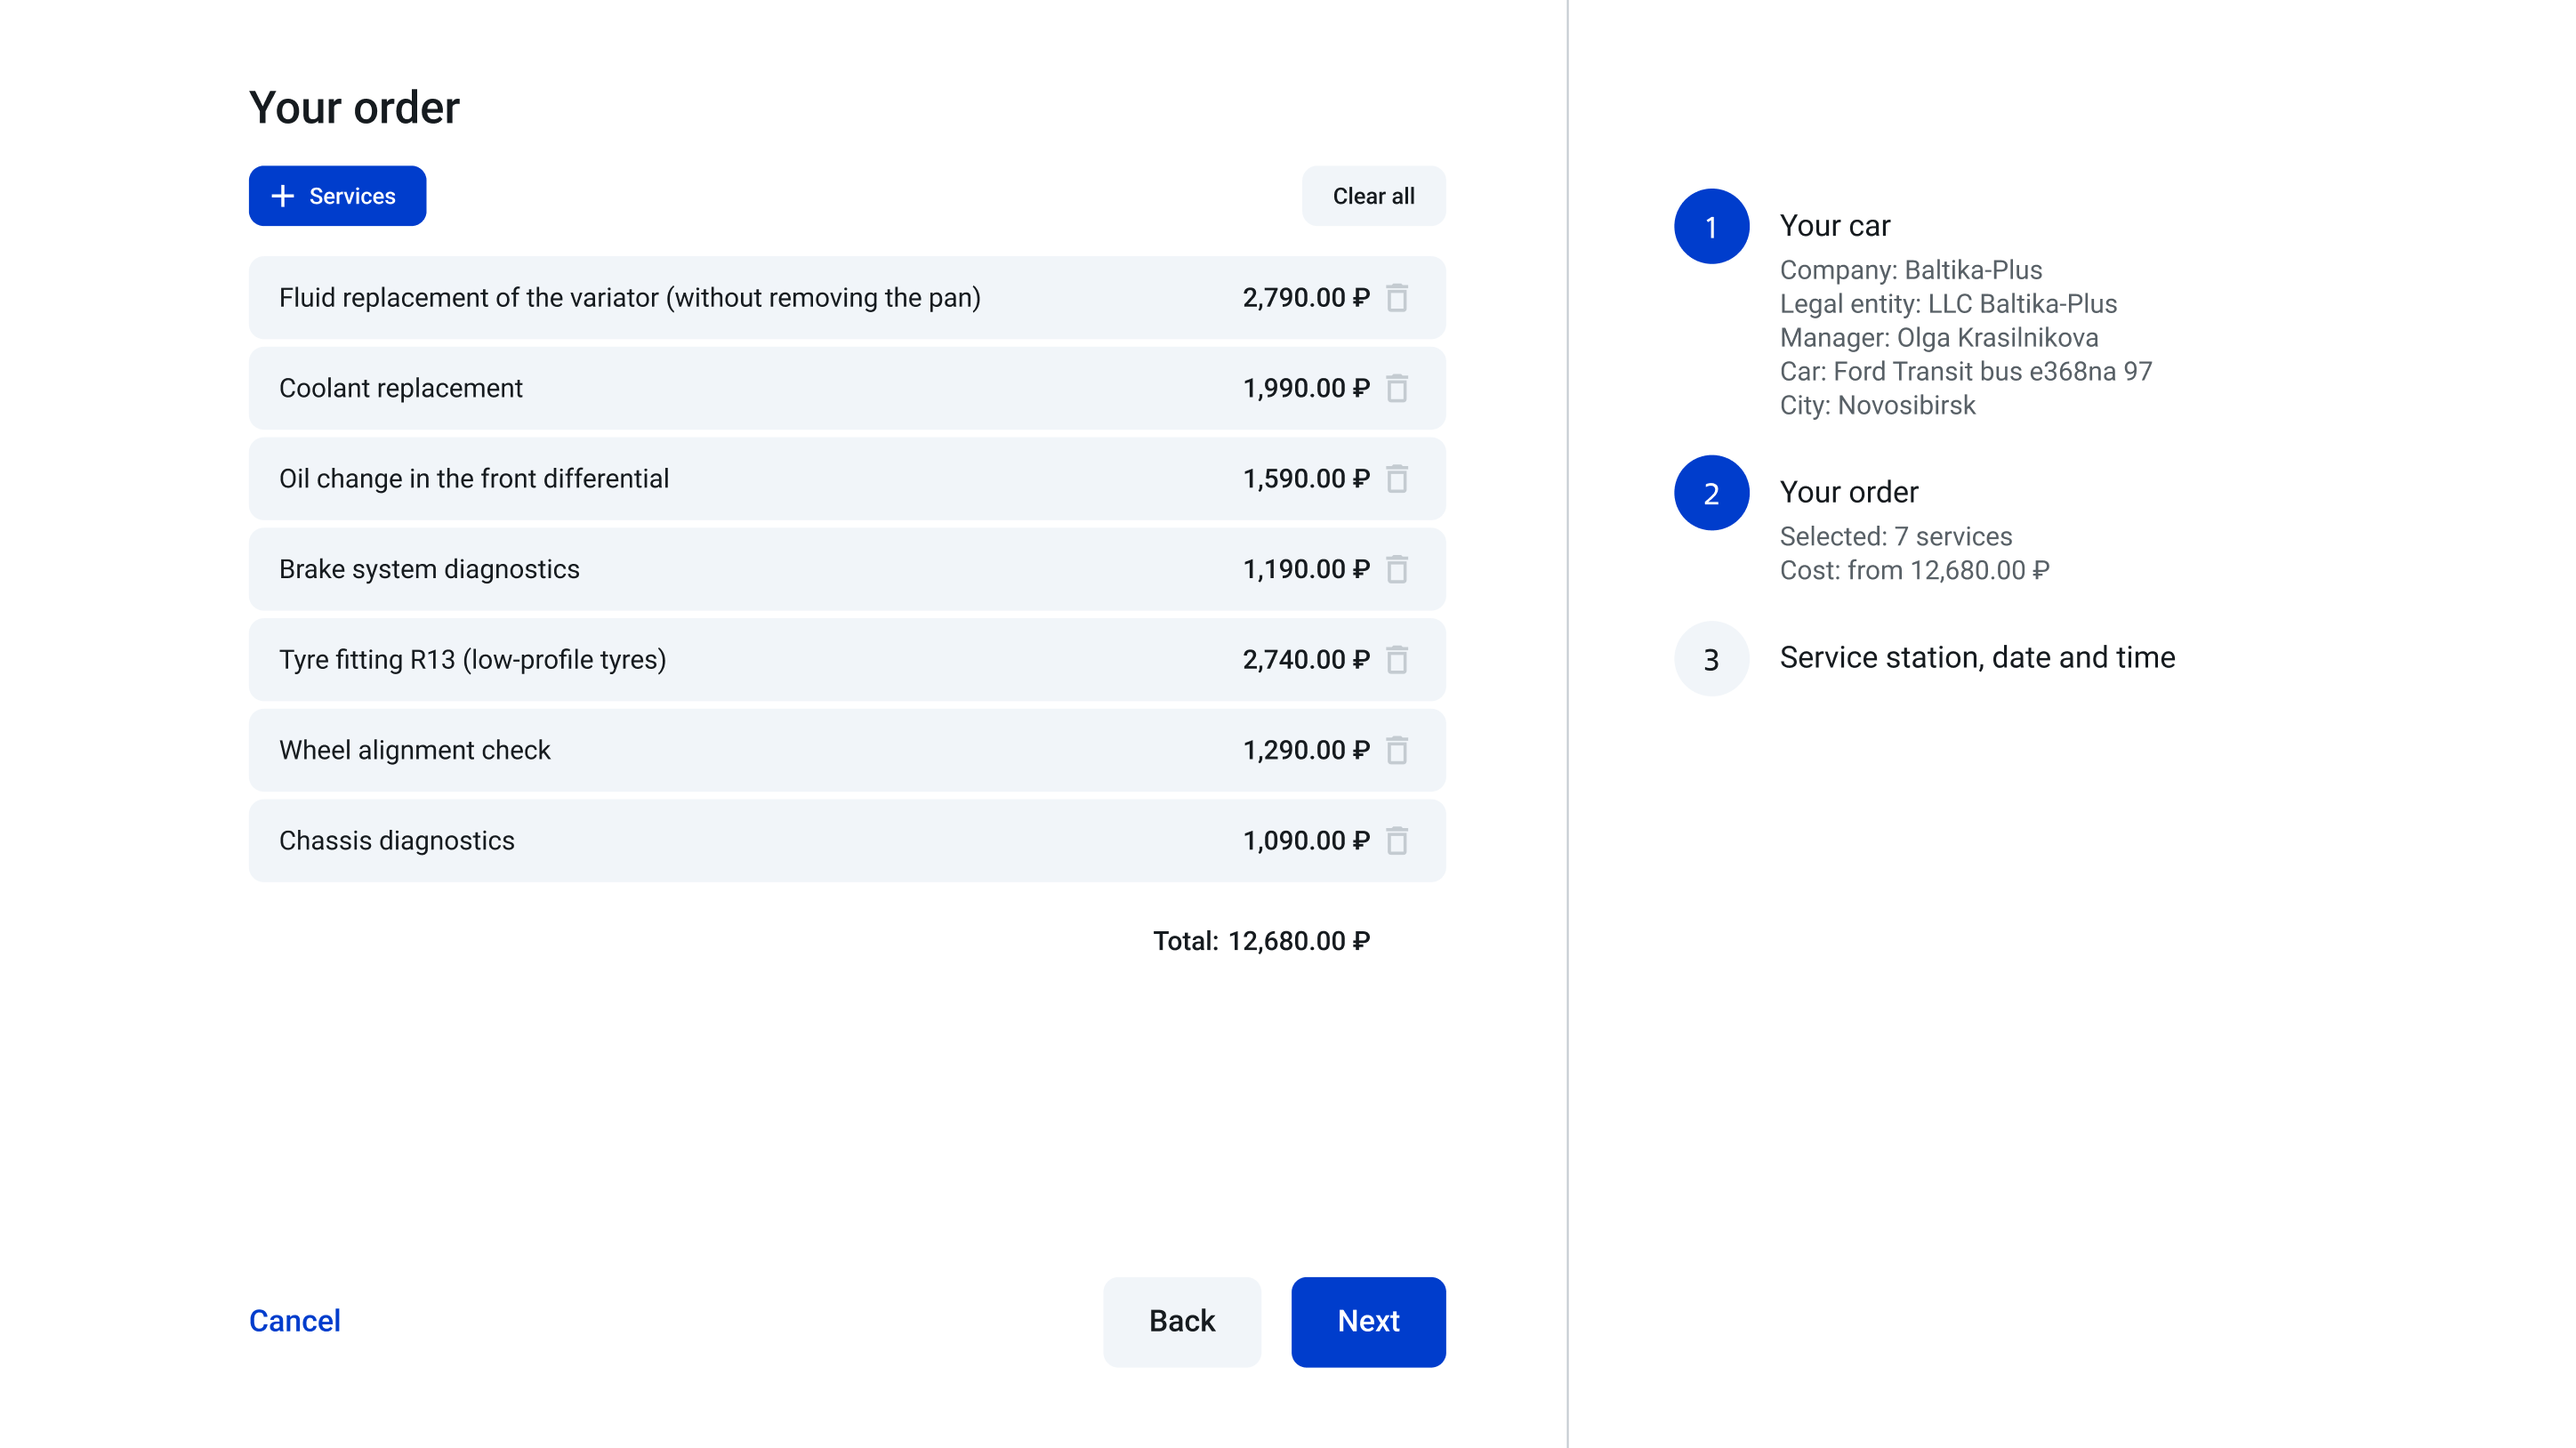
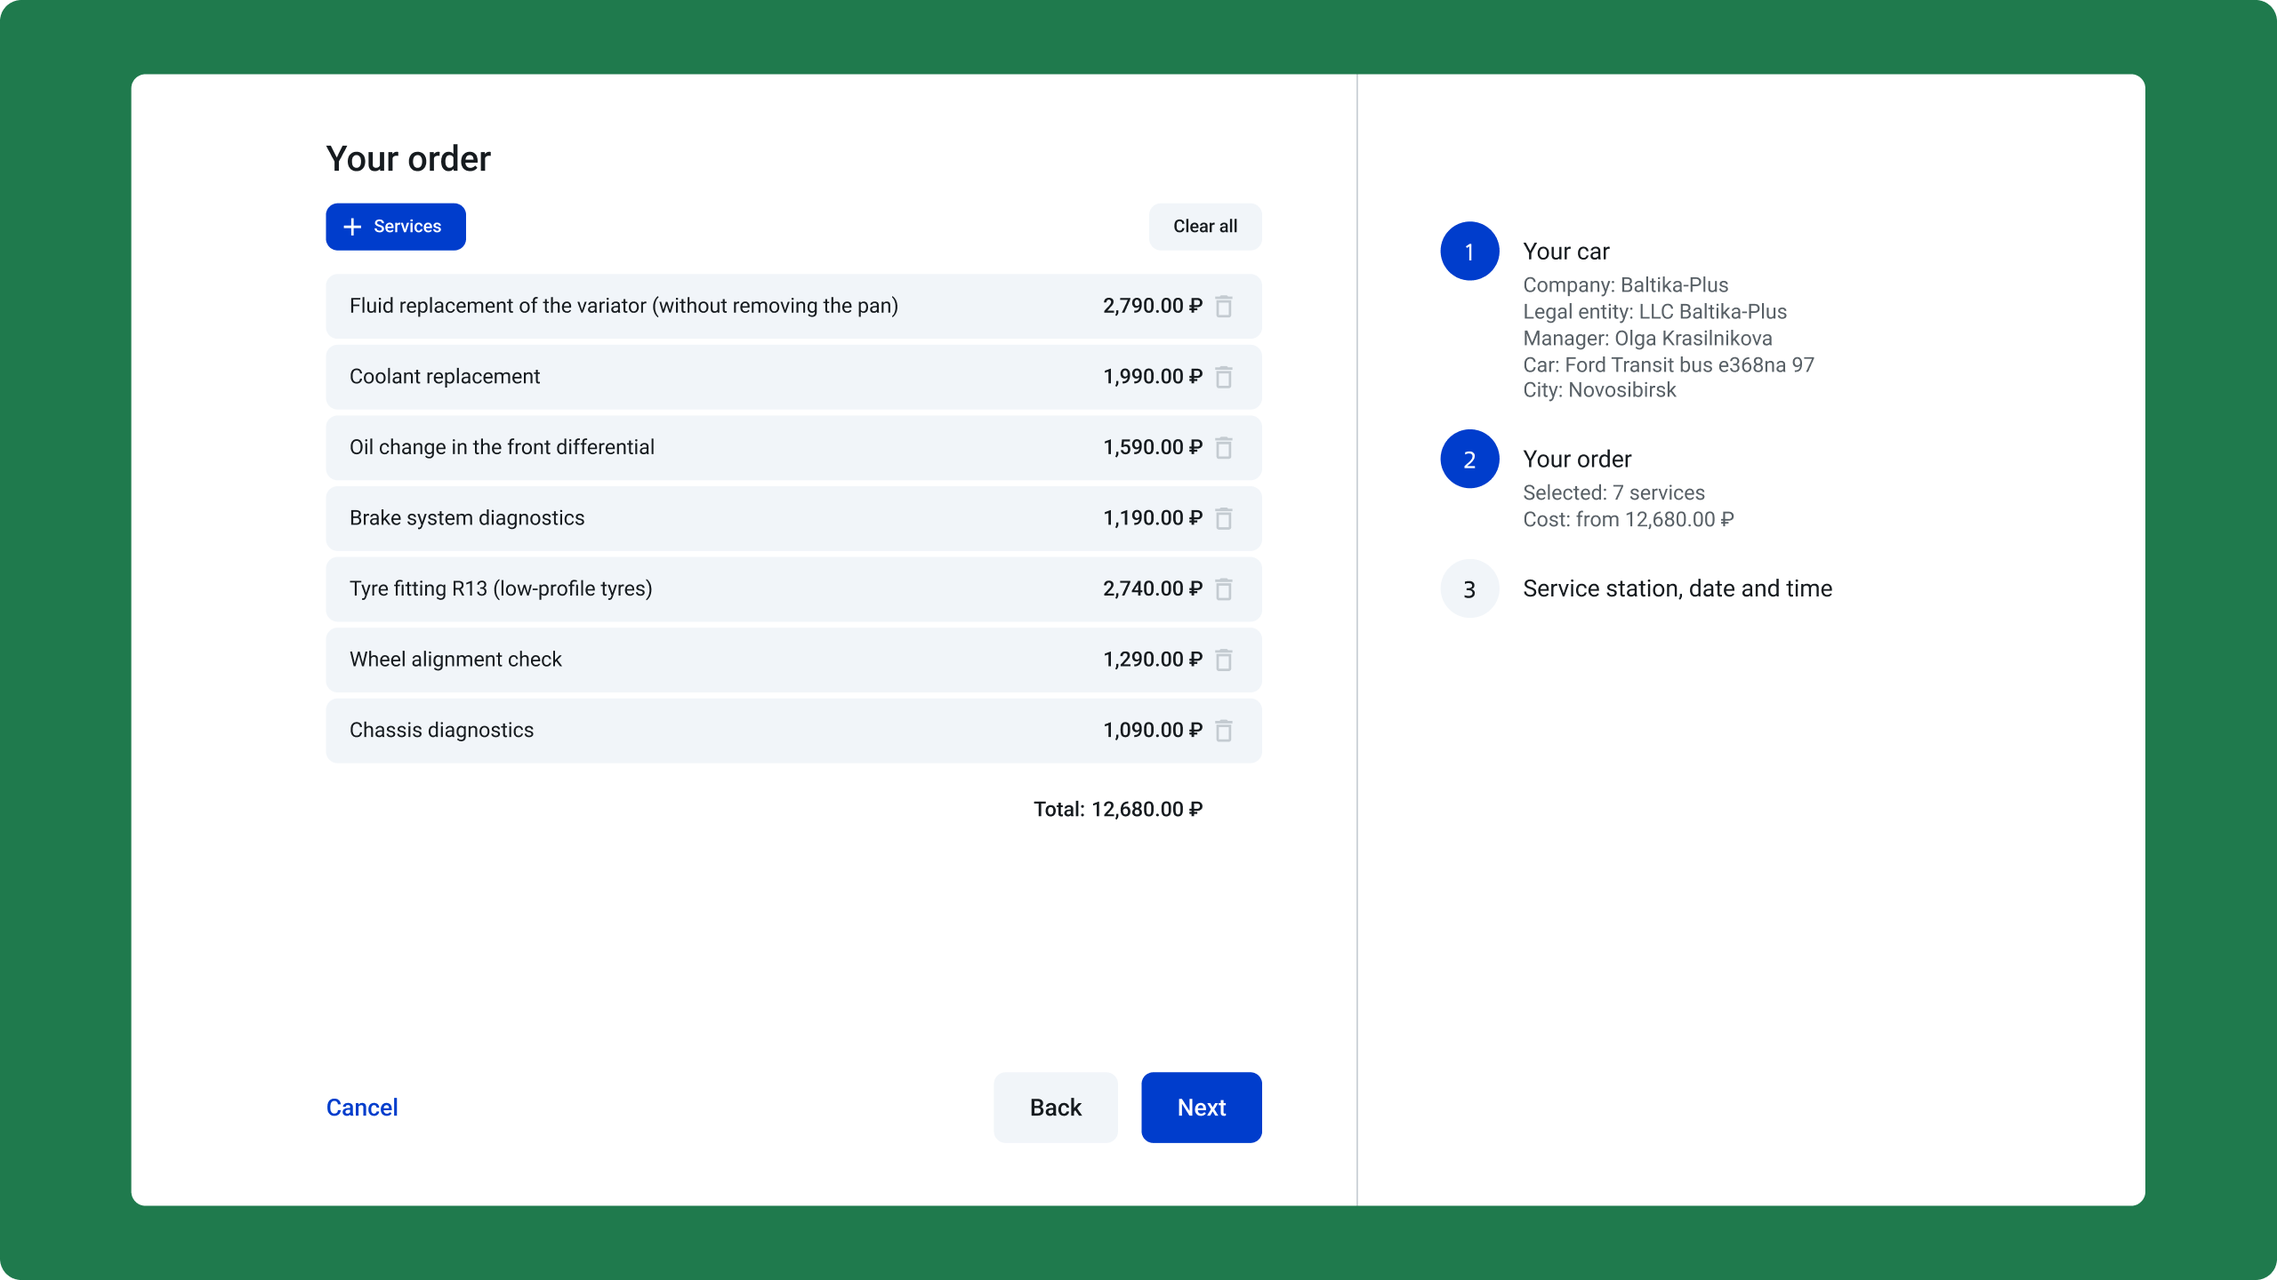
Update images - fleet

diff --git a/work/fleet-booking.html b/work/fleet-booking.html
@@ -38,11 +38,9 @@
     <div><dt>Tools</dt><dd>Figma · Miro</dd></div>
   </dl>
 
-  <!-- Overview image placeholder — no divider -->
+  <!-- Overview image -->
   <div style="padding: 0 var(--page-pad, 40px); margin-bottom: 48px;">
-    <div style="width:100%; aspect-ratio:16/7; background:#e8e4dc; border-radius:12px; display:flex; align-items:center; justify-content:center;">
-      <span style="font-family:var(--mono); font-size:11px; opacity:0.4; text-transform:uppercase; letter-spacing:0.1em;">Image — overview / key screen</span>
-    </div>
+    <img src="Image — overview.png" alt="Overview — key screen" style="width:100%; border-radius:12px; display:block;">
   </div>
 
   <!-- Sections -->
@@ -62,65 +60,7 @@
         We walked the existing flow end to end and mapped every friction point in Miro. Then I restructured it around one idea: show only what the user needs right now, and make progress impossible to miss. We tested the redesign as an interactive Figma prototype before a single line of code was written.
       </p>
 
-      <div class="shots three">
-        <div class="shot"><div class="inner-shot shot-bg-2" style="padding: 6%;">
-          <div style="width: 100%; display: flex; flex-direction: column; gap: 6px;">
-            <div style="font-family: var(--mono); font-size: 8px; opacity: 0.6; text-transform: uppercase; letter-spacing: 0.1em;">Audit · before</div>
-            <div style="display: grid; grid-template-columns: repeat(9, 1fr); gap: 3px;">
-              <span style="aspect-ratio: 1; background: #d4a17e; border-radius: 2px;"></span>
-              <span style="aspect-ratio: 1; background: #c97b3c; border-radius: 2px;"></span>
-              <span style="aspect-ratio: 1; background: #d4a17e; border-radius: 2px;"></span>
-              <span style="aspect-ratio: 1; background: #97a7c8; border-radius: 2px;"></span>
-              <span style="aspect-ratio: 1; background: #d4a17e; border-radius: 2px;"></span>
-              <span style="aspect-ratio: 1; background: #c97b3c; border-radius: 2px;"></span>
-              <span style="aspect-ratio: 1; background: #97a7c8; border-radius: 2px;"></span>
-              <span style="aspect-ratio: 1; background: #d4a17e; border-radius: 2px;"></span>
-              <span style="aspect-ratio: 1; background: #c97b3c; border-radius: 2px;"></span>
-              <span style="aspect-ratio: 1; background: #97a7c8; border-radius: 2px;"></span>
-              <span style="aspect-ratio: 1; background: #d4a17e; border-radius: 2px;"></span>
-              <span style="aspect-ratio: 1; background: #c97b3c; border-radius: 2px;"></span>
-              <span style="aspect-ratio: 1; background: #d4a17e; border-radius: 2px;"></span>
-              <span style="aspect-ratio: 1; background: #97a7c8; border-radius: 2px;"></span>
-              <span style="aspect-ratio: 1; background: #d4a17e; border-radius: 2px;"></span>
-              <span style="aspect-ratio: 1; background: #c97b3c; border-radius: 2px;"></span>
-              <span style="aspect-ratio: 1; background: #97a7c8; border-radius: 2px;"></span>
-              <span style="aspect-ratio: 1; background: #d4a17e; border-radius: 2px;"></span>
-            </div>
-            <div style="font-family: var(--mono); font-size: 8px; opacity: 0.8; margin-top: 4px;">53 distinct surfaces</div>
-          </div>
-        </div></div>
-        <div class="shot"><div class="inner-shot shot-bg-1" style="padding: 6%;">
-          <div style="width: 100%; display: flex; flex-direction: column; gap: 8px; font-family: ui-sans-serif, system-ui;">
-            <div style="font-family: var(--mono); font-size: 8px; text-transform: uppercase; letter-spacing: 0.1em; color: #8a8275;">Workshop · principles</div>
-            <div style="font-family: 'Newsreader', serif; font-size: 16px; line-height: 1.2; color: #14110d;">One <em style="font-style: italic;">step at a time.</em> Progress always visible. No decisions upfront.</div>
-            <div style="display: flex; gap: 4px; margin-top: 6px;">
-              <span style="font-size: 7px; padding: 3px 7px; background: #14110d; color: #f8f5ed; border-radius: 999px; font-family: var(--mono);">01</span>
-              <span style="font-size: 7px; padding: 3px 7px; background: #14110d; color: #f8f5ed; border-radius: 999px; font-family: var(--mono);">02</span>
-              <span style="font-size: 7px; padding: 3px 7px; background: #14110d; color: #f8f5ed; border-radius: 999px; font-family: var(--mono);">03</span>
-            </div>
-          </div>
-        </div></div>
-        <div class="shot"><div class="inner-shot shot-bg-5" style="padding: 6%;">
-          <div style="width: 100%; display: flex; flex-direction: column; gap: 6px;">
-            <div style="font-family: var(--mono); font-size: 8px; opacity: 0.7; text-transform: uppercase; letter-spacing: 0.1em;">After · v3</div>
-            <div style="display: grid; grid-template-columns: repeat(6, 1fr); gap: 3px;">
-              <span style="aspect-ratio: 1; background: #8aa691; border-radius: 2px;"></span>
-              <span style="aspect-ratio: 1; background: #1f7a4d; border-radius: 2px;"></span>
-              <span style="aspect-ratio: 1; background: #8aa691; border-radius: 2px;"></span>
-              <span style="aspect-ratio: 1; background: #1f7a4d; border-radius: 2px;"></span>
-              <span style="aspect-ratio: 1; background: #8aa691; border-radius: 2px;"></span>
-              <span style="aspect-ratio: 1; background: #1f7a4d; border-radius: 2px;"></span>
-              <span style="aspect-ratio: 1; background: #1f7a4d; border-radius: 2px;"></span>
-              <span style="aspect-ratio: 1; background: #8aa691; border-radius: 2px;"></span>
-              <span style="aspect-ratio: 1; background: #1f7a4d; border-radius: 2px;"></span>
-              <span style="aspect-ratio: 1; background: #8aa691; border-radius: 2px;"></span>
-              <span style="aspect-ratio: 1; background: #1f7a4d; border-radius: 2px;"></span>
-              <span style="aspect-ratio: 1; background: #8aa691; border-radius: 2px;"></span>
-            </div>
-            <div style="font-family: var(--mono); font-size: 8px; opacity: 0.8; margin-top: 4px;">12 surfaces · −77%</div>
-          </div>
-        </div></div>
-      </div>
+      <img src="Image — approach.png" alt="Approach" style="width:100%; border-radius:12px; display:block; margin-top:24px;">
     </div>
   </section>
 
@@ -133,14 +73,7 @@
       </p>
 
       <!-- Two square image placeholders for mobile screens -->
-      <div style="display: grid; grid-template-columns: 1fr 1fr; gap: 16px; margin-top: 24px;">
-        <div style="aspect-ratio: 1/1; background: #0e231e; border-radius: 12px; display: flex; align-items: center; justify-content: center;">
-          <span style="font-family:var(--mono); font-size:11px; opacity:0.4; text-transform:uppercase; letter-spacing:0.1em; color:#fff;">Mobile screen</span>
-        </div>
-        <div style="aspect-ratio: 1/1; background: #0e231e; border-radius: 12px; display: flex; align-items: center; justify-content: center;">
-          <span style="font-family:var(--mono); font-size:11px; opacity:0.4; text-transform:uppercase; letter-spacing:0.1em; color:#fff;">Mobile screen</span>
-        </div>
-      </div>
+      <img src="Image — flow.png" alt="The flow" style="width:100%; border-radius:12px; display:block; margin-top:24px;">
     </div>
   </section>
 
@@ -151,18 +84,7 @@
         The biggest change wasn't visual — it was structural. Separating each stage meant users could focus on one decision at a time. Clean hierarchy and consistent inputs did the rest.
       </p>
 
-      <div class="shots three" style="grid-template-columns: 1fr;">
-        <div class="shot" style="aspect-ratio: 16/5; background: #14110d; padding: 0;">
-          <div style="width: 100%; height: 100%; padding: 20px 28px; display: grid; grid-template-columns: repeat(5, 1fr); gap: 8px; align-items: center; color: #f8f5ed;">
-            <div style="grid-column: span 5; font-family: var(--mono); font-size: 10px; text-transform: uppercase; letter-spacing: 0.12em; opacity: 0.6;">The booking flow · 5 steps</div>
-            <div style="display: flex; flex-direction: column; gap: 4px; align-items: center;"><kbd style="padding: 6px 10px; border: 1px solid rgba(255,255,255,0.2); border-radius: 6px; font-family: var(--mono); font-size: 10px; min-width: 28px; text-align: center;">01</kbd><span style="font-size: 9px; opacity: 0.6; text-align: center;">Select vehicle</span></div>
-            <div style="display: flex; flex-direction: column; gap: 4px; align-items: center;"><kbd style="padding: 6px 10px; border: 1px solid rgba(255,255,255,0.2); border-radius: 6px; font-family: var(--mono); font-size: 10px; min-width: 28px; text-align: center;">02</kbd><span style="font-size: 9px; opacity: 0.6; text-align: center;">Choose station</span></div>
-            <div style="display: flex; flex-direction: column; gap: 4px; align-items: center;"><kbd style="padding: 6px 10px; border: 1px solid rgba(255,255,255,0.2); border-radius: 6px; font-family: var(--mono); font-size: 10px; min-width: 28px; text-align: center;">03</kbd><span style="font-size: 9px; opacity: 0.6; text-align: center;">Pick date & time</span></div>
-            <div style="display: flex; flex-direction: column; gap: 4px; align-items: center;"><kbd style="padding: 6px 10px; border: 1px solid rgba(255,255,255,0.2); border-radius: 6px; font-family: var(--mono); font-size: 10px; min-width: 28px; text-align: center;">04</kbd><span style="font-size: 9px; opacity: 0.6; text-align: center;">Review details</span></div>
-            <div style="display: flex; flex-direction: column; gap: 4px; align-items: center;"><kbd style="padding: 6px 10px; border: 1px solid rgba(255,255,255,0.2); border-radius: 6px; font-family: var(--mono); font-size: 10px; min-width: 28px; text-align: center;">05</kbd><span style="font-size: 9px; opacity: 0.6; text-align: center;">Confirm booking</span></div>
-          </div>
-        </div>
-      </div>
+      <img src="Design decisions.png" alt="Design decisions" style="width:100%; border-radius:12px; display:block; margin-top:24px;">
     </div>
   </section>
 
@@ -173,15 +95,7 @@
         Clients noticed immediately during prototype testing — the flow felt faster, cleaner, and easier to trust. That reaction, before a single line of code, was the clearest signal we got.
       </p>
 
-      <!-- Two 16:9 image placeholders -->
-      <div style="display: grid; grid-template-columns: 1fr 1fr; gap: 16px; margin: 24px 0;">
-        <div style="aspect-ratio: 16/9; background:#e8e4dc; border-radius:12px; display:flex; align-items:center; justify-content:center;">
-          <span style="font-family:var(--mono); font-size:11px; opacity:0.4; text-transform:uppercase; letter-spacing:0.1em;">Image — final screen</span>
-        </div>
-        <div style="aspect-ratio: 16/9; background:#e8e4dc; border-radius:12px; display:flex; align-items:center; justify-content:center;">
-          <span style="font-family:var(--mono); font-size:11px; opacity:0.4; text-transform:uppercase; letter-spacing:0.1em;">Image — final screen</span>
-        </div>
-      </div>
+      <img src="Outcome.png" alt="Outcome" style="width:100%; border-radius:12px; display:block; margin: 24px 0;">
 
       <p style="font-size: 18px; line-height: 1.6;">
         In a multi-step B2B flow, the real work is structural. Move the right things out of the way, and the interface takes care of itself.
